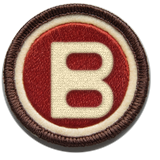
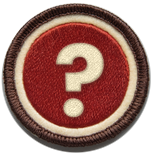
0.9.21 : boutons brodes — point d'interrogation et silhouette de biscotte ; Miette AI commence par Poser une question
Claude-Session: https://claude.ai/code/session_01D4Rbey7w1A74G3W8MQ6nuw

Changed region(s): [[0.3125, 0.25, 0.7188, 0.75]]

diff --git a/ui/modules/renforts.js b/ui/modules/renforts.js
@@ -7,7 +7,7 @@
 // demande dans ChatGPT ou Gemini (rien à payer dans les deux cas).
 // =====================================================================
 (() => {
-const R = { volet: BK.reglage('renfort.volet', 'veilleur'), salons: [], aideCtx: null };
+const R = { volet: BK.reglage('renfort.volet', 'question'), salons: [], aideCtx: null };
 const esc = s => String(s ?? '').replace(/[&<>"]/g, c => ({ '&': '&amp;', '<': '&lt;', '>': '&gt;', '"': '&quot;' }[c]));
 const dateCourte = d => d ? new Date(d.length === 10 ? d + 'T12:00' : d).toLocaleDateString('fr-CA', { day: 'numeric', month: 'short' }) : '';
 const ICONES = { evenement: '📅', export: '🎵', tache: '✅', sortie: '🚀', note: '📝' };
@@ -31,7 +31,7 @@ BK.module('renforts', function (page) {
   $('.grid', page).innerHTML = `
     <div class="cols">
       <section class="pane vit ra-vit">
-        <div class="seg ra-volets" id="raVolets"><button data-v="veilleur">🍞 Miette</button><button data-v="question">Poser une question</button><button data-v="aides">Aides</button></div>
+        <div class="seg ra-volets" id="raVolets"><button data-v="question">Poser une question</button><button data-v="aides">Aides</button><button data-v="veilleur">🍞 Miette</button></div>
         <div class="ra-volet" id="raVolet"></div>
       </section>
       <section class="pane reg ra-reg" style="width:320px"><span class="ptitle">② Historique</span>

diff --git a/ui/js/coeur.js b/ui/js/coeur.js
@@ -7,7 +7,7 @@ const $ = (s, r = document) => r.querySelector(s);
 const $$ = (s, r = document) => [...r.querySelectorAll(s)];
 
 const BK = {
-  version: '0.9.20 bêta',
+  version: '0.9.21 bêta',
   modules: {},
   onglets: [],
   cotes: [],
